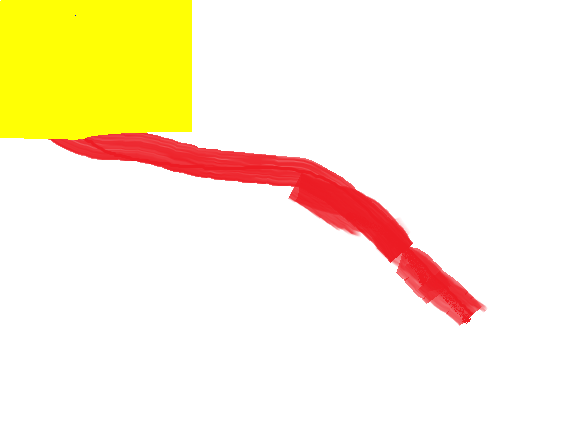
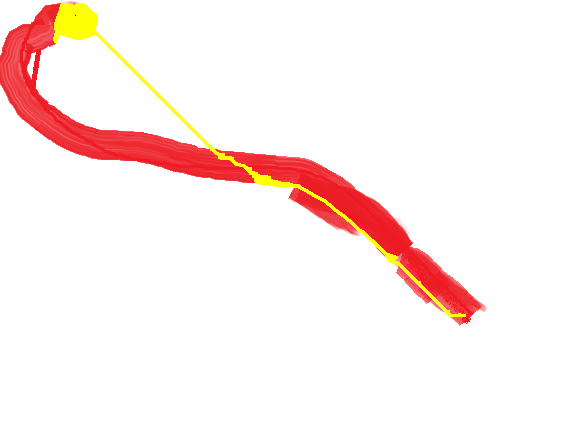
User interface class is written to choose the algorithm and sorting type. New speed optimizations are implemented. Best First search class has been added.

diff --git a/src/yapayzekaodev1/newStar.java b/src/yapayzekaodev1/newStar.java
@@ -48,7 +48,7 @@ public class newStar {
         int pixel;
         pixel = img.getRGB(child.x, child.y);
         int r = (pixel >> 16) & 0xff;
-
+        
         // get green 
         // int g = (pixel >> 8) & 0xff;
         // get blue 
@@ -59,18 +59,40 @@ public class newStar {
     private double h(Point child, Double gg) {
         double value;
         double normalizer;
-        double visual;
-        int x1 = child.x;
-        int x2 = End.x;
-        int y1 = child.y;
-        int y2 = End.y;
-        normalizer = Math.sqrt(Math.pow(0 - width, 2) + Math.pow(0 - height, 2));
+        double visual; 
+        double maxValue;
+        int x0 = Start.x; int x1 = child.x;  int x2 = End.x;
+        int y0 = Start.y; int y1 = child.y;  int y2 = End.y;
+        
+        /*//maxValue = Math.sqrt(Math.pow(x0 - x2, 2) + Math.pow(y0 - y2, 2));
         visual = Math.sqrt(Math.pow(x1 - x2, 2) + Math.pow(y1 - y2, 2));
-        value = visual;
-
-        //256 * visual/normalizer; //0-256 arası bir heureistic deger doner.  
-        double xy = visual * gg / normalizer;
+        //maxValue *= 256;
+        value = visual * 100;
+        return value;*/
+        
+        visual = Math.sqrt(Math.pow(x1 - x2, 2) + Math.pow(y1 - y2, 2));
+        /*
+        visual -> gg ise
+        256    -> x ?
+        => x = 256 * gg / visual
+        */
+        value = gg * visual; //256 * gg / visual;
         return value;
+
+
+
+
+
+
+        //normalizer = Math.sqrt(Math.pow(0 - width, 2) + Math.pow(0 - height, 2));
+        //visual = Math.sqrt(Math.pow(x1 - x2, 2) + Math.pow(y1 - y2, 2));
+        //value = visual;
+        //value = 256 * visual/normalizer; //0-256 arası bir heureistic deger doner.  
+        //double xy = visual * gg / normalizer;
+        //return xy;  
+
+
+
     }
 
     private void setColor() {
@@ -211,9 +233,14 @@ public class newStar {
 
             currentList.add(current.pos);
             visited.add(current);
-
+            
+            
+            
+            
+            
+            
             ///////////Sonuc Bulunmasi Halinde Yapilan Tek seferlik islemler.
-            if (current.pos.equals(End)) { //Sonuç bulduysa
+            if (current.pos.equals(End)) { //Sonuç bulduysa             
                 endPrint();
                 return;           
             }
@@ -293,7 +320,7 @@ public class newStar {
                         && //VE Cocuk Node legal bir adresteyse
                         track.pos.x < width && track.pos.y < height) {
                     track.g = current.g + g(track.pos);
-                    track.h = h(track.pos, track.g);
+                    track.h = h(track.pos, g(track.pos));
                     track.f = track.g + track.h;
                     boolean breakOut = false; //Dongu kirma degiskeni.                    
                     for (int i = 0; i < notVisited.getSize(); i++) {

diff --git a/src/yapayzekaodev1/YapayZekaOdev1.java b/src/yapayzekaodev1/YapayZekaOdev1.java
@@ -21,22 +21,22 @@ public class YapayZekaOdev1 {
         
         
         long startTime = System.nanoTime();
-        newStar newAlgo = new newStar(new Point(75,15),new Point(77, 138));
+        newStar newAlgo = new newStar(new Point(75,15),new Point(465, 315));
         newAlgo.algoRun();
         long endTime = System.nanoTime();
         long duration = (endTime - startTime) / 1000000; 
         //8 Dakika 3 Saniye 
-       /* 
+        
         long startTime2 = System.nanoTime();
-        heaplessAStar heaplessAlgo = new heaplessAStar(new Point(75,15),new Point(400, 246));
+        heaplessAStar heaplessAlgo = new heaplessAStar(new Point(75,15),new Point(465, 315));
         heaplessAlgo.algoRun();
         long endTime2 = System.nanoTime();
-        long duration2 = (endTime2 - startTime2) / 1000000; */
+        long duration2 = (endTime2 - startTime2) / 1000000; 
         //7 dakika 22 saniye.
         
         
-        //System.out.println("With Heap:"+ duration);     
-        //System.out.println("Without Heap:"+ duration2);
+        System.out.println("With Heap:"+ duration);     
+        System.out.println("Without Heap:"+ duration2);
         
         
     }

diff --git a/src/yapayzekaodev1/heaplessAStar.java b/src/yapayzekaodev1/heaplessAStar.java
@@ -68,10 +68,10 @@ public class heaplessAStar {
         int y2 = End.y;
         normalizer = Math.sqrt(Math.pow(0 - width, 2) + Math.pow(0 - height, 2));
         visual = Math.sqrt(Math.pow(x1 - x2, 2) + Math.pow(y1 - y2, 2));
-        value = visual;
+        value = gg * visual;
 
         //256 * visual/normalizer; //0-256 arası bir heureistic deger doner.  
-        double xy = visual * gg / normalizer;
+        //double xy = visual * gg / normalizer;
         return value;
     }
 
@@ -273,7 +273,7 @@ public class heaplessAStar {
                         && //VE Cocuk Node legal bir adresteyse
                         track.pos.x < width && track.pos.y < height) {
                     track.g = current.g + g(track.pos);
-                    track.h = h(track.pos, track.g);
+                    track.h = h(track.pos, g(track.pos));
                     track.f = track.g + track.h;
                     boolean breakOut = false; //Dongu kirma degiskeni.
 
